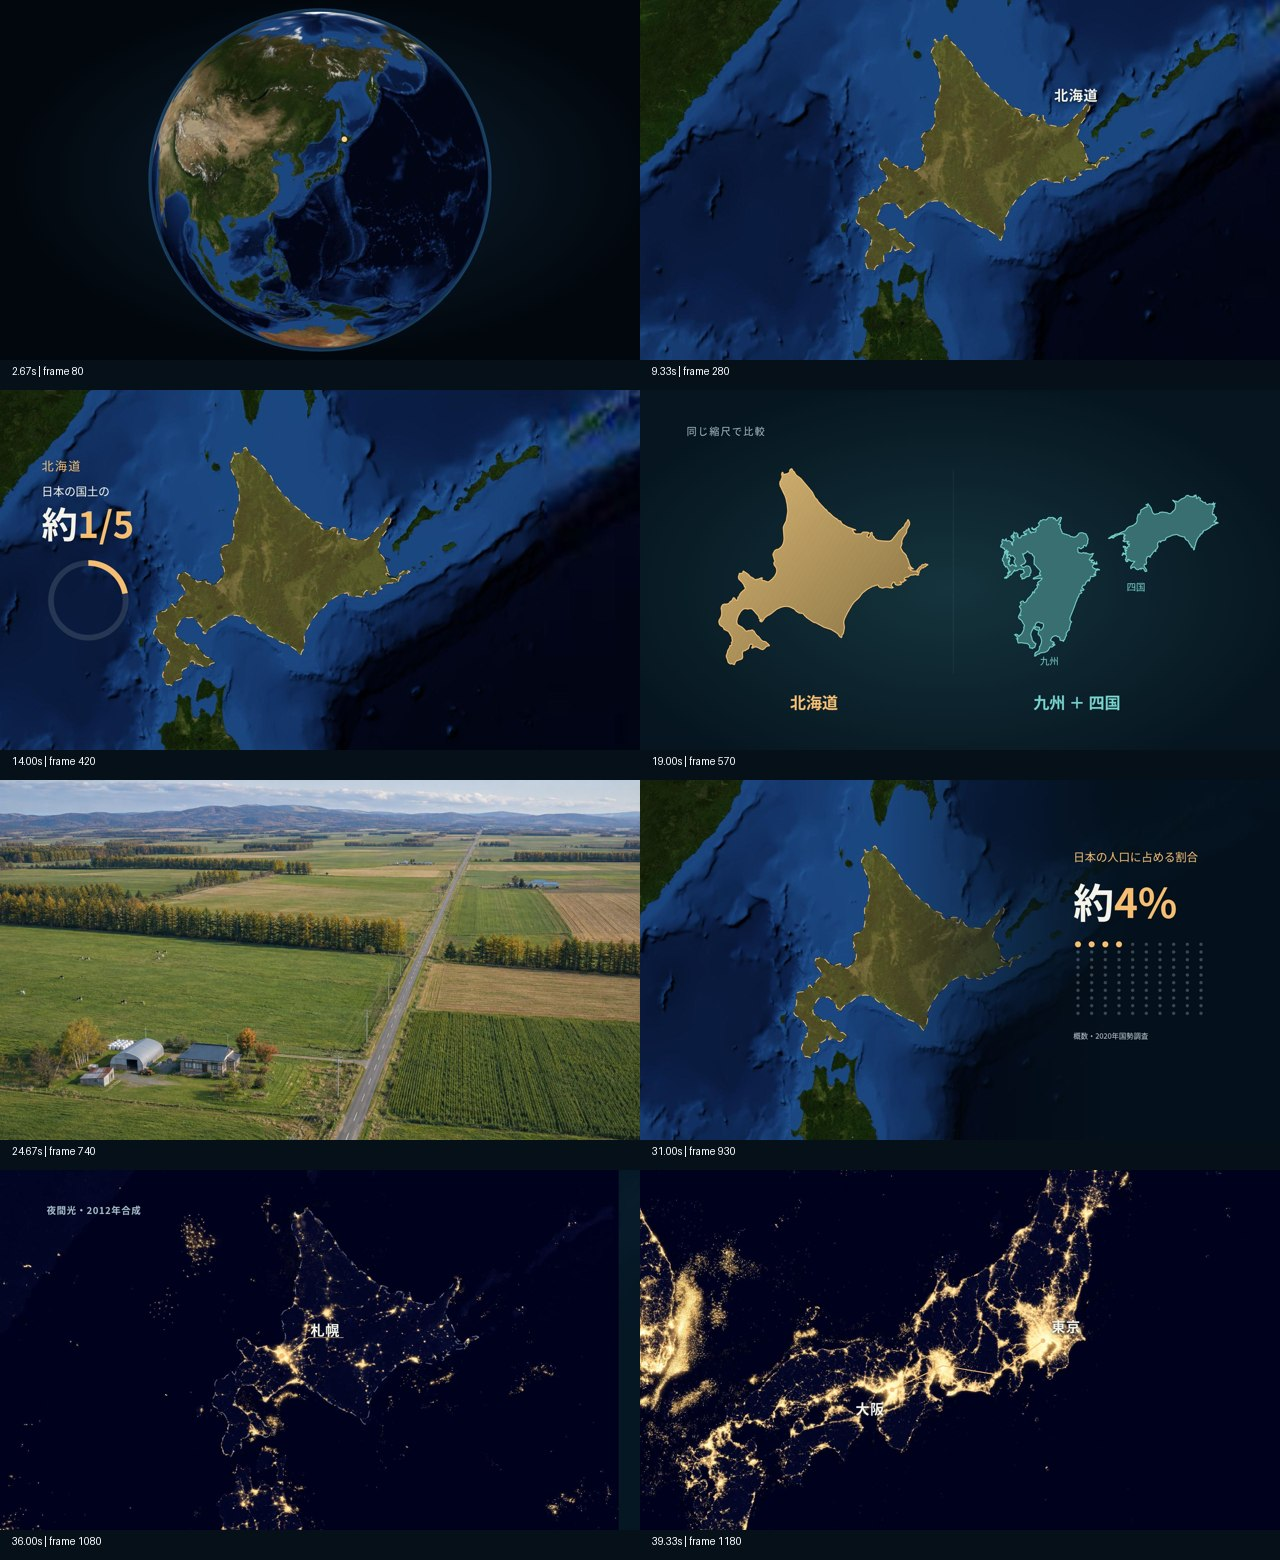
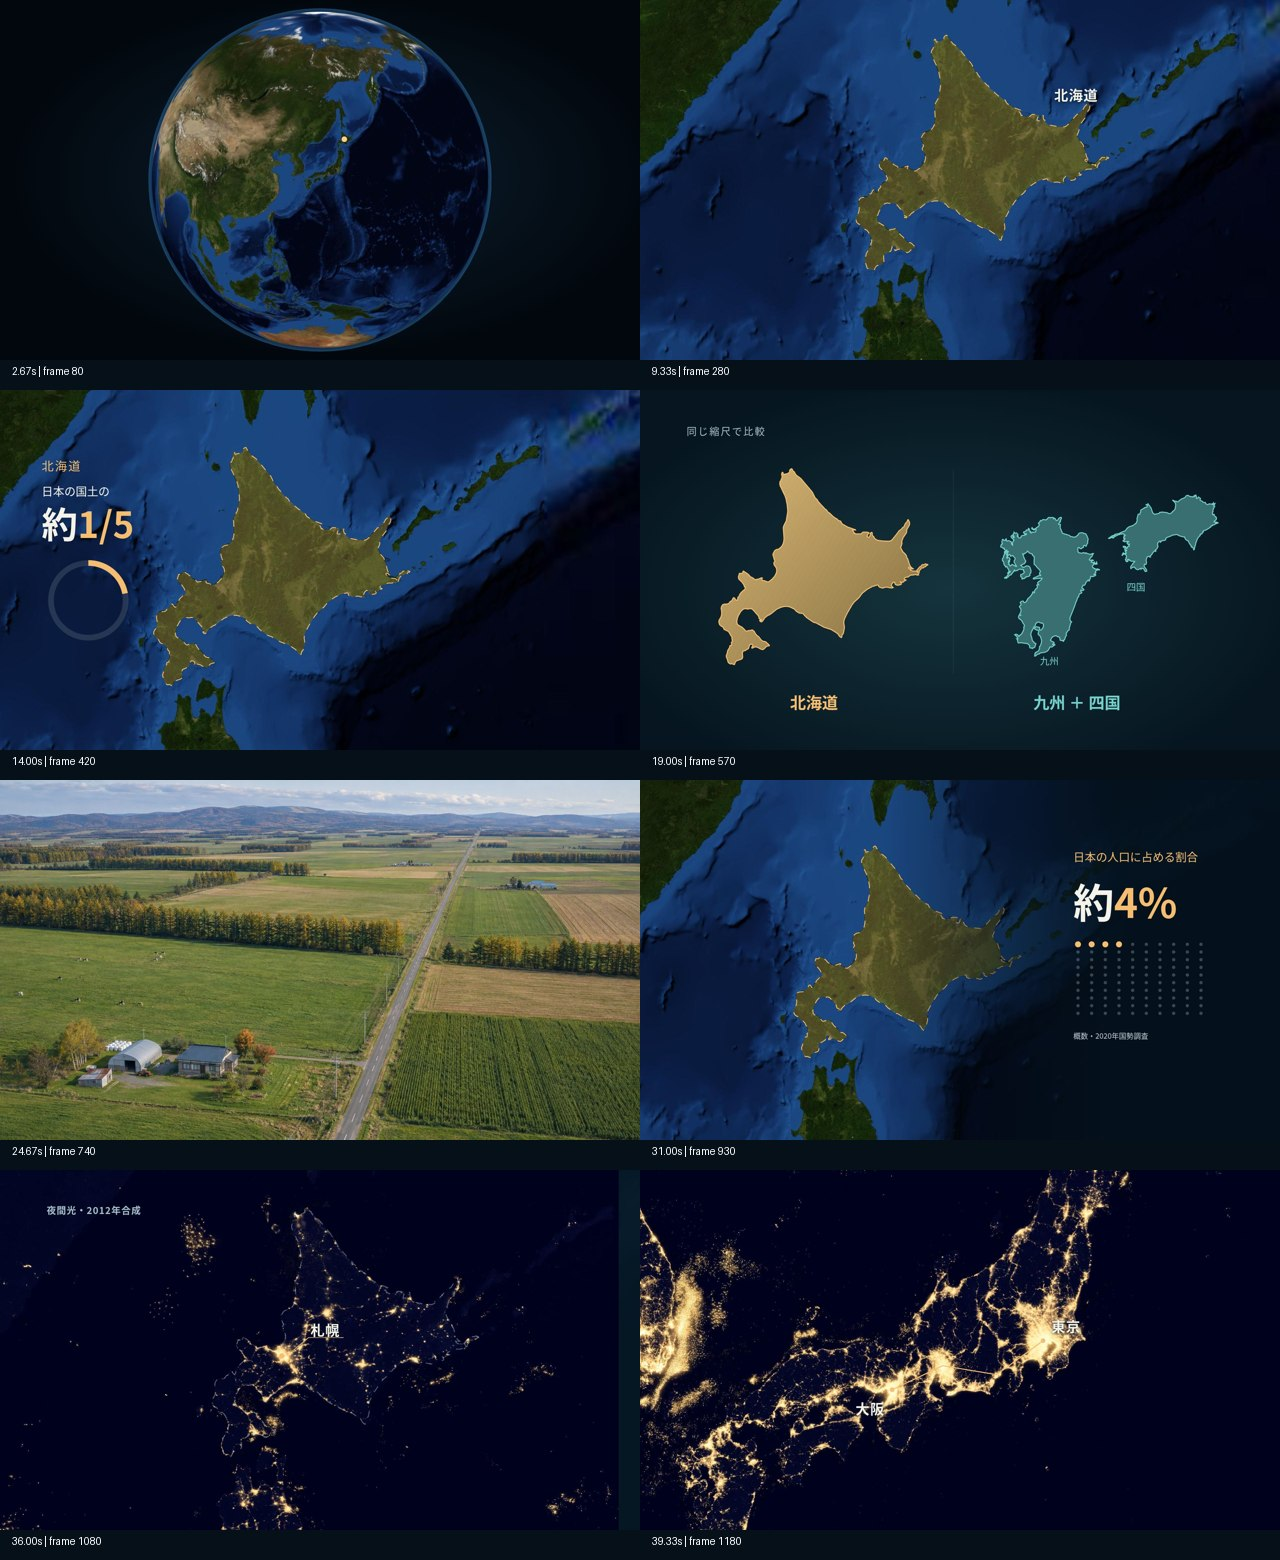
Make Hokkaido illustration camera move gently forward

Changed region(s): [[0.0, 0.5231, 0.5, 0.7385]]

diff --git a/hokkaido-documentary/src/common.tsx b/hokkaido-documentary/src/common.tsx
@@ -20,4 +20,4 @@ export const MapCanvas:React.FC<{cx:number;cy:number;s:number;night?:boolean;chi
 </svg>;
 export const Outline:React.FC<{opacity?:number;fill?:string;reveal?:number;color?:string}> = ({opacity=1,fill='none',reveal=1,color=GOLD})=><path d={paths.hokkaido} fill={fill} fillOpacity={.26*opacity} stroke={color} strokeWidth={2.5} vectorEffect="non-scaling-stroke" pathLength={1} strokeDasharray={1} strokeDashoffset={1-reveal} opacity={opacity}/>;
 export const Dissolve:React.FC<{children:React.ReactNode;frames?:number}>=({children,frames=12})=>{const f=useCurrentFrame();return <AbsoluteFill style={{opacity:progress(f,0,frames)}}>{children}</AbsoluteFill>};
-export const RuralScene=()=>{const f=useCurrentFrame();const {durationInFrames}=useVideoConfig();return <AbsoluteFill style={{overflow:'hidden',background:'#18342d'}}><Img src={staticFile('scenes/hokkaido-rural.png')} style={{width:'100%',height:'100%',objectFit:'cover',scale:interpolate(f,[0,durationInFrames-1],[1,1.02],{easing:ease,extrapolateLeft:'clamp',extrapolateRight:'clamp'})}}/></AbsoluteFill>};
+export const RuralScene=()=>{const f=useCurrentFrame();const {durationInFrames}=useVideoConfig();return <AbsoluteFill style={{overflow:'hidden',background:'#18342d'}}><Img src={staticFile('scenes/hokkaido-rural.png')} style={{width:'100%',height:'100%',objectFit:'cover',transformOrigin:'73% 28%',scale:interpolate(f,[0,durationInFrames-1],[1,1.03],{easing:Easing.linear,extrapolateLeft:'clamp',extrapolateRight:'clamp'})}}/></AbsoluteFill>};

diff --git a/.agents/skills/satellite-documentary/SKILL.md b/.agents/skills/satellite-documentary/SKILL.md
@@ -38,6 +38,8 @@ markup, maps và render theo công việc cụ thể; không giả định mọi
   tiết chế, chuyển cảnh êm. Không shake, jitter, glitch, flash, zoom bật, overshoot
   hay đổi hướng đột ngột. Không reset zoom/rung theo từng ảnh; xem clip chuyển động
   và điểm nối để kiểm tra, không chỉ duyệt ảnh tĩnh.
+  Với ảnh phù hợp, ưu tiên cú camera tiến chậm về điểm chú ý (gentle push-in),
+  mức phóng nhẹ khoảng 1–3% trong một shot; không thêm hiệu ứng rung hay nảy.
 - Mỗi lần trở lại map phải có phát hiện thị giác mới đúng lời thoại: vị trí, phạm
   vi, dòng chảy, đường đi, biến động, mật độ hoặc so sánh. Chỉ đổi zoom/màu/scan
   trên cùng một bản đồ chưa đủ để được tính là thông tin mới.

diff --git a/hokkaido-documentary/README.md b/hokkaido-documentary/README.md
@@ -25,3 +25,11 @@ across the full audio.
 Both contain the same 40-second edit and audio. Git LFS is used for MP3/MP4 files;
 run `git lfs install` and `git lfs pull` after cloning. Install Noto Sans CJK JP
 for Japanese map annotations. QA results and contact sheets are in `production/`.
+
+## Motion revision V2
+
+The rural illustration now uses one slow, constant forward push (3% over 8 seconds),
+anchored toward the vanishing point of the road. No shake or direction changes.
+The map design, narration and edit timings are unchanged. Only the affected
+20–30 second render chunk was rebuilt; other verified chunks were reused.
+`preview/hokkaido-camera-forward-7s.mp4` isolates 21.5–28.5 seconds for quick review.
